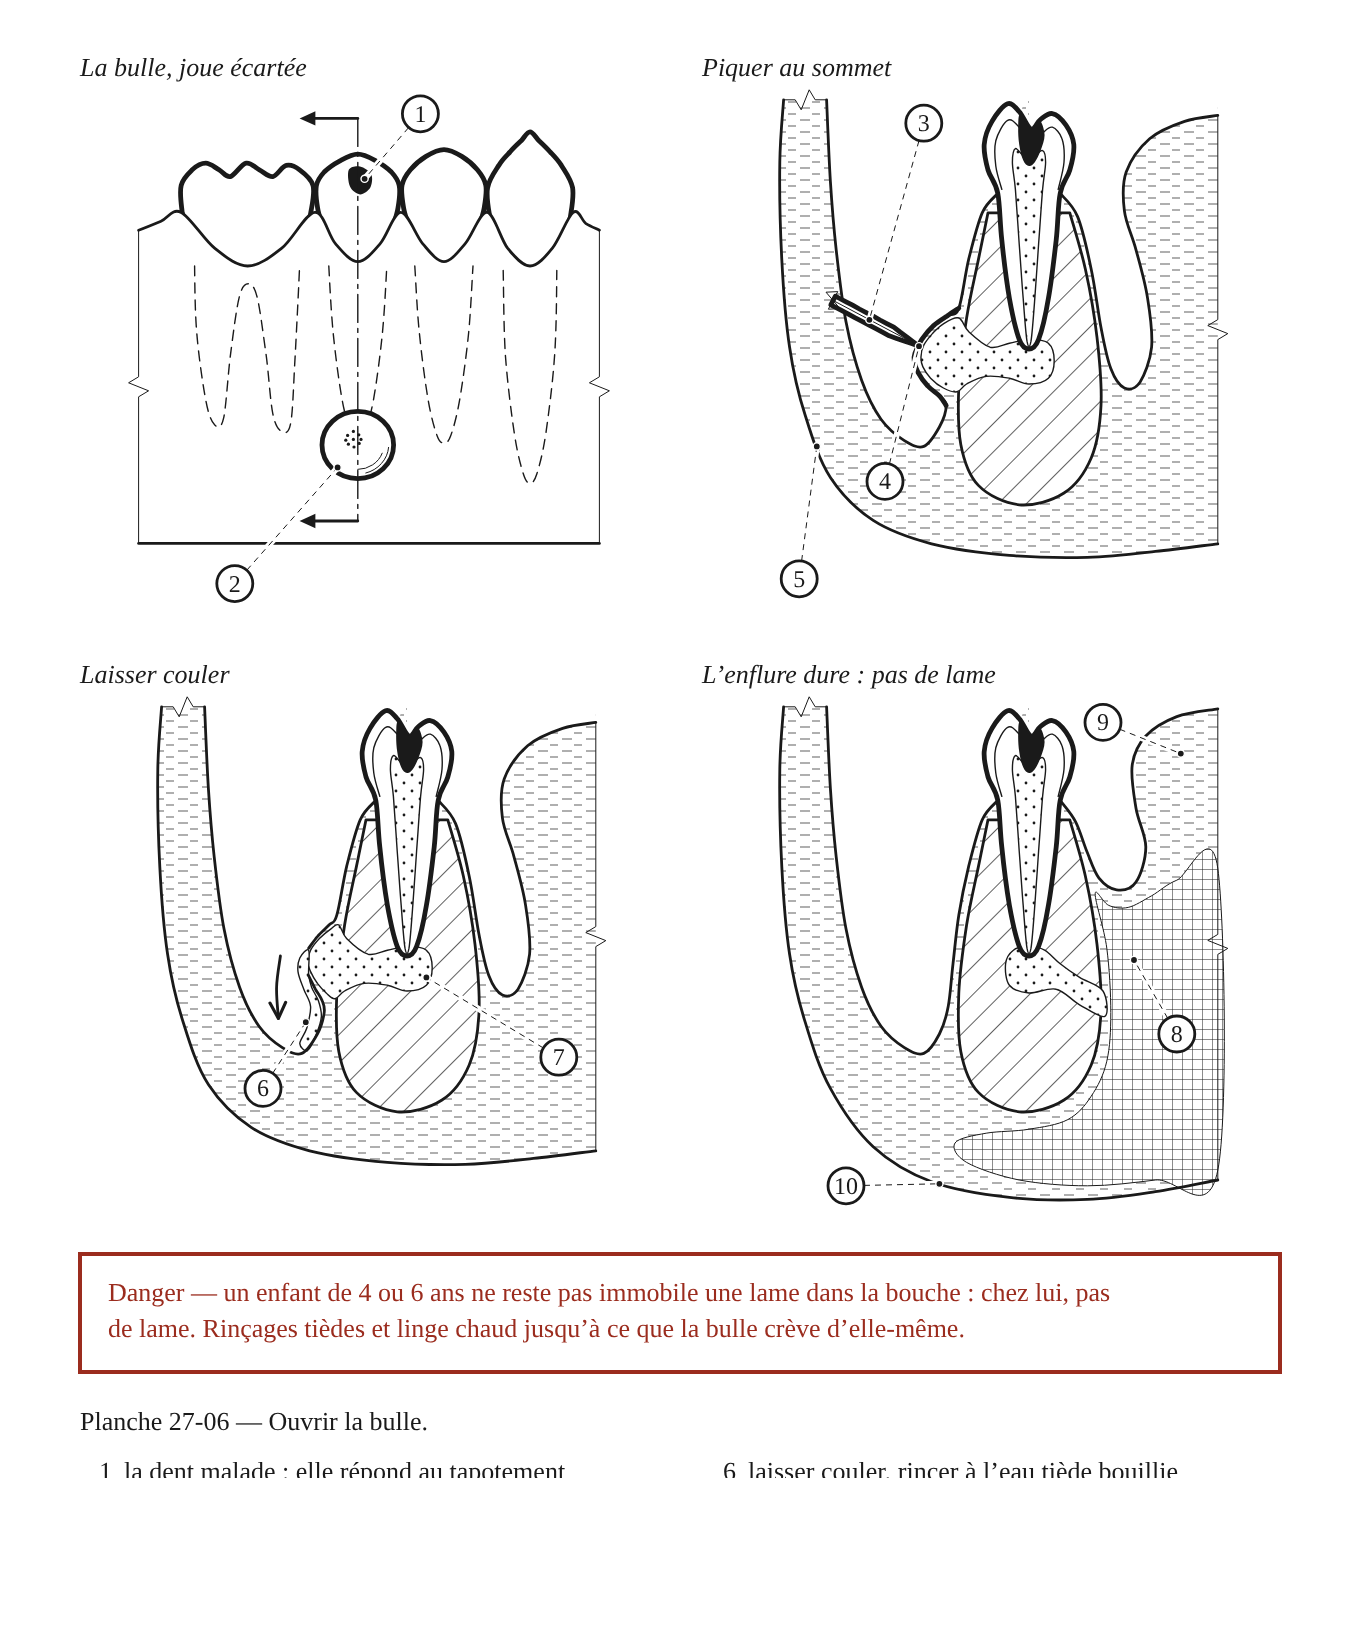
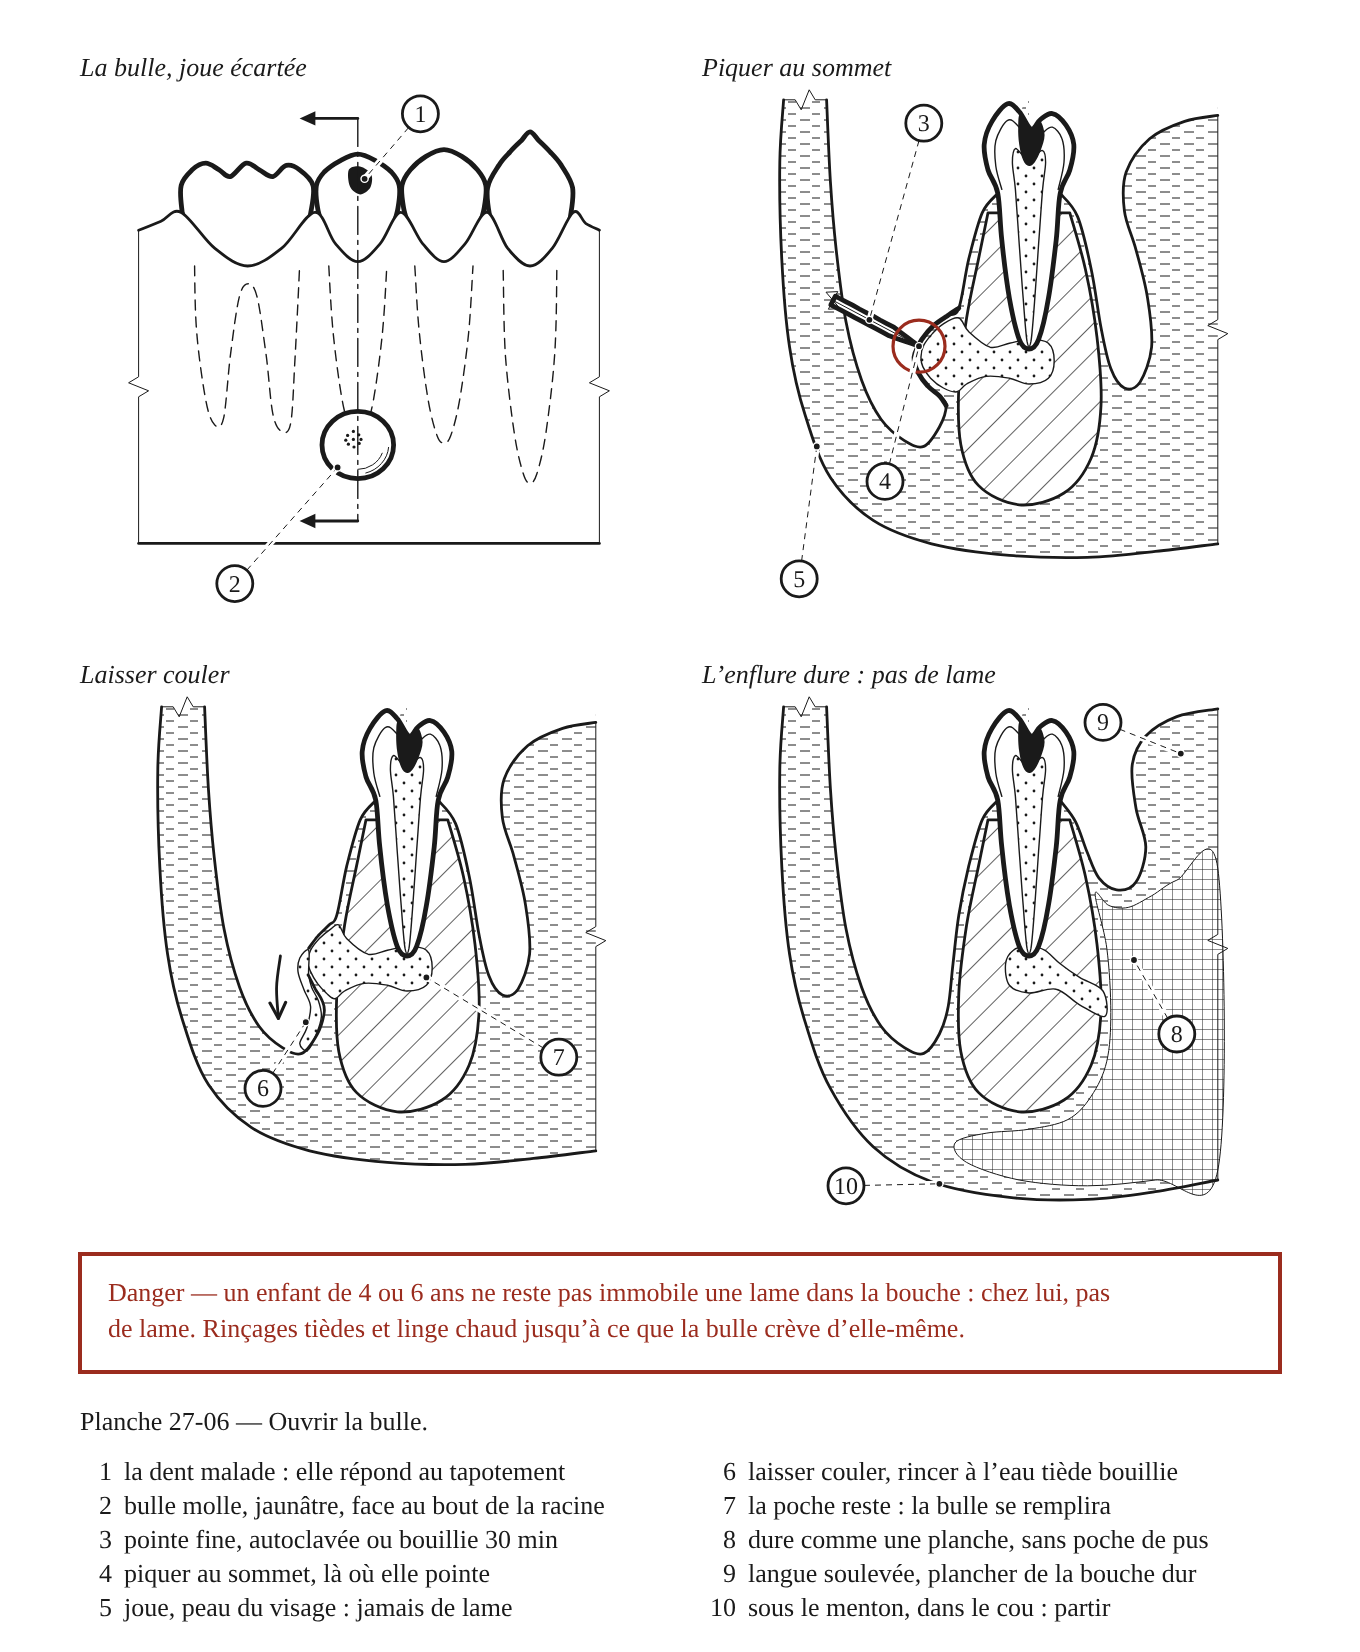
Charte : lot 5, paquet 1 (7 planches) ; option gris loin du module de carcasse
Claude-Session: https://claude.ai/code/session_014xDY5FLxFXDJt3nYAYznSZ

diff --git a/images/planches-src/37-06.js b/images/planches-src/37-06.js
@@ -15,6 +15,10 @@
 // ce qui se voit de devant est le dessous ; le dessus ne se devine qu'entre les feuilles, dedans.
 // Les tours de saule : un brin rond suivi par son axe, les tours vus de devant (un peu d'en haut),
 // ce qui passe dessous en tireté. Aucune main : l'objet et la flèche du geste.
+//
+// La charte : la pousse de saule, objet du geste dans les trois vues du bas, a son contour à 2,4.
+// Pas de gris : la hachure du dessus des feuilles donne déjà le foncé. Le rouge : les gestes —
+// tordre (les deux sens, une seule torsion), enrouler, tirer le bout repassé.
 module.exports = (h) => {
   const N = '#1A1A1A', B = '#FFFFFF';
   const f = v => Math.round(v * 10) / 10;
@@ -346,7 +350,7 @@ module.exports = (h) => {
     const rotation = (yc, sens) => {
       const rx = 24, ry = 6, pt = th => [XS + sens * rx * Math.sin(th), yc + ry * Math.cos(th)];
       const pts = (a, b, n = 24) => Array.from({ length: n + 1 }, (_, i) => pt(a + (b - a) * i / n));
-      return { dos: poly(pts(0.72 * Math.PI, 1.5 * Math.PI), h.a.arete, false), face: h.fleche(`M${pts(1.5 * Math.PI, 2.42 * Math.PI).map(P).join(' L')}`) };
+      return { dos: poly(pts(0.72 * Math.PI, 1.5 * Math.PI), h.a.geste, false), face: h.geste(`M${pts(1.5 * Math.PI, 2.42 * Math.PI).map(P).join(' L')}`) };
     };
     const hautR = rotation(Y1 - 20, 1), basR = rotation(Y2 + 20, -1);
     out.push(hautR.dos, basR.dos);
@@ -358,7 +362,7 @@ module.exports = (h) => {
       g.push([XS - r - tw * Math.sin((y - Y1) / 9 * TAU), y]);
       d.push([XS + r + tw * Math.sin((y - Y1) / 9 * TAU + Math.PI), y]);
     }
-    out.push(poly([[XS - r0 + 0.5, 6], [XS + r0 - 0.5, 4.5], ...d, ...g.reverse()], tr(1.4, B)));
+    out.push(poly([[XS - r0 + 0.5, 6], [XS + r0 - 0.5, 4.5], ...d, ...g.reverse()], tr(2.4, B)));
     // les fibres tordues, qui s'ouvrent un peu
     for (let y = Y1 + 5; y < Y2 - 3; y += 8.5) {
       out.push(h.path(`M${f(XS - r0 + 0.8)} ${f(y + 3.4)} Q${f(XS)} ${f(y + 1.2)} ${f(XS + r0 - 0.8)} ${f(y - 3.4)}`, tr(0.5)));
@@ -387,17 +391,17 @@ module.exports = (h) => {
   const arcPts = (C, r, a1, a2, n = 10) => Array.from({ length: n + 1 }, (_, i) => { const a = a1 + (a2 - a1) * i / n; return add(C, [r * Math.cos(a), r * Math.sin(a)]); });
   const yDebutBas = yTour(2, XDB) + TT / 2 + 30;
   const lien = fini => {
-    const out = [], opt = { debut: 'rond', vDebut: [-1, 0], fin: 'rond', vFin: [1, 0] };
+    const out = [], opt = { debut: 'rond', vDebut: [-1, 0], fin: 'rond', vFin: [1, 0], ep: 2.4 };
     // le début : monte sous les tours, tourne et devient le tour du haut
     const y0s = yTour(0, XDB + RB);
     const deb = [[XDB, yDebutBas], [XDB, y0s + RB], ...arcPts([XDB + RB, y0s + RB], RB, Math.PI, 1.5 * Math.PI).slice(1), ...passe(0, XDB + RB, XD).slice(1)];
     // le bout repassé : la fin du dernier tour tourne vers le haut, passe sous les deux tours
     const yE = yTour(2, XT - RB), yHautBout = yTour(0, XT) - TT / 2 - 34;
-    if (fini) out.push(brin(mk([[XT, yTour(1, XT) + TT / 2 + 2], [XT, yHautBout]]), TT, { fin: 'biseau' }));
-    out.push(brin(mk(deb), TT, { debut: 'biseau', fin: 'rond', vFin: [1, 0] }));
+    if (fini) out.push(brin(mk([[XT, yTour(1, XT) + TT / 2 + 2], [XT, yHautBout]]), TT, { fin: 'biseau', ep: 2.4 }));
+    out.push(brin(mk(deb), TT, { debut: 'biseau', fin: 'rond', vFin: [1, 0], ep: 2.4 }));
     if (fini) {
       const der = [...passe(2, XG, XT - RB), ...arcPts([XT - RB, yE - RB], RB, Math.PI / 2, 0).slice(1), [XT, yTour(1, XT) + TT / 2 - 3]];
-      out.push(brin(mk(der), TT, { debut: 'rond', vDebut: [-1, 0] }));
+      out.push(brin(mk(der), TT, { debut: 'rond', vDebut: [-1, 0], ep: 2.4 }));
     }
     out.push(brin(mk(passe(1, XG, XD)), TT, opt));
     // ce qui passe dessous, en tireté
@@ -417,18 +421,18 @@ module.exports = (h) => {
     // la partie libre : la suite du tour du bas, tenue de côté, qui va passer derrière
     const y2 = yTour(2, XD);
     const libre = echant([...passe(2, XG, XD - 10, 6), [XD + 2, y2 + 1], [XD + 22, y2 + 8], [XD + 42, y2 + 26], [XD + 52, y2 + 58]], 2);
-    out.push(L.svg, brin(mk(libre), TT, { debut: 'rond', vDebut: [-1, 0], fin: 'biseau' }), L.caches);
+    out.push(L.svg, brin(mk(libre), TT, { debut: 'rond', vDebut: [-1, 0], fin: 'biseau', ep: 2.4 }), L.caches);
     // le tour qui vient : derrière de droite à gauche, puis devant de gauche à droite
     const ya = yDebutBas + 14, ra = RR + 14;
     const pts = Array.from({ length: 29 }, (_, i) => { const th = -Math.PI / 2 - 0.3 + (Math.PI + 0.45) * i / 28; return [CX + ra * Math.sin(th), ya + 0.22 * ra * Math.cos(th)]; });
-    out.push(h.fleche(`M${pts.map(P).join(' L')}`));
+    out.push(h.geste(`M${pts.map(P).join(' L')}`));
     return out.join('\n');
   };
   const repasser = () => {
     const out = [manche(CX, RR, 6, 202, 5)];
     ligF = lien(true);
     out.push(ligF.svg, ligF.caches);
-    out.push(h.fleche(`M${XT} ${f(ligF.yHautBout - 6)} L${XT} ${f(ligF.yHautBout - 30)}`));
+    out.push(h.geste(`M${XT} ${f(ligF.yHautBout - 6)} L${XT} ${f(ligF.yHautBout - 30)}`));
     return out.join('\n');
   };
 

diff --git a/images/planches-src/27-06.js b/images/planches-src/27-06.js
@@ -103,7 +103,7 @@ module.exports = (h) => {
     const L = (pts, a = h.a.arete, ferme = false) => h.path(cr(M(pts), ferme), a);
     const out = [];
     const dur = etat === 'dure';
-    out.push('<defs><pattern id="h-chair" width="12" height="6" patternUnits="userSpaceOnUse"><line x1="1" y1="2" x2="6" y2="2" stroke="#1A1A1A" stroke-width="0.35"/><line x1="7" y1="5" x2="11" y2="5" stroke="#1A1A1A" stroke-width="0.35"/></pattern></defs>');
+    out.push('<defs><pattern id="h-chair" width="12" height="6" patternUnits="userSpaceOnUse"><line x1="1" y1="2" x2="6" y2="2" stroke="#1A1A1A" stroke-width="0.5"/><line x1="7" y1="5" x2="11" y2="5" stroke="#1A1A1A" stroke-width="0.5"/></pattern></defs>');
     const suite = pts => cr(M(pts)).replace(/^M/, ' L');
     // la chair (joue, gencive, langue, plancher, menton) en tireté horizontal ; l'air en blanc
     out.push(h.path(cr(M(dur ? PEAU_DUR : PEAU)) + ` L${f(P([247, 38]))} L${f(P([24, 38]))} Z`, 'fill="url(#h-chair)" stroke="none"'));

diff --git a/images/planches-src/62-02.js b/images/planches-src/62-02.js
@@ -26,7 +26,8 @@ module.exports = (h) => {
     disposition: [['regions'], ['os']],
     vues: {
       regions: {
-        dessin: z => C.dessiner(h, place(z), { id: 'a', regions: true, limites: 'plein' }),
+        // la charte : les pattes du côté loin en gris loin (option du module)
+        dessin: z => C.dessiner(h, place(z), { id: 'a', regions: true, limites: 'plein', loin: 'gris' }),
         renvois: z => {
           const p = place(z);
           return [
@@ -40,7 +41,7 @@ module.exports = (h) => {
       },
       os: {
         dessin: z => C.dessiner(h, place(z), {
-          id: 'b', limites: 'tirete', loin: 'fin',
+          id: 'b', limites: 'tirete', loin: 'gris',
           os: ['vertebres', 'sacrum', 'cotes', 'sternum', 'omoplate', 'cartilageOmoplate', 'humerus', 'radius', 'cubitus',
             'bassin', 'femur', 'rotule', 'tibia'],
           osForts: ['rotule', 'cubitus', 'bassin', 'cartilageOmoplate', 'C7', 'T1', 'cote13'],

diff --git a/images/planches-src/50-10.js b/images/planches-src/50-10.js
@@ -44,7 +44,7 @@ module.exports = (h) => {
     const q = (x, y) => [c[0] + x * a, c[1] + y * b];
     const contour = FORME_ROCHE.map(([x, y]) => q(x, y));
     const out = ombre
-      ? [h.chemin(contour, h.a.blanc, true), h.chemin([q(0.06, -0.3), q(0.92, -0.4), q(1, 0.04), q(0.94, 0.5), q(0.7, 0.84)], h.a.ombre, true), h.chemin(contour, attr, true)]
+      ? [h.chemin(contour, h.a.blanc, true), h.chemin([q(0.06, -0.3), q(0.92, -0.4), q(1, 0.04), q(0.94, 0.5), q(0.7, 0.84)], h.a.ombre, true), h.chemin(contour, attr.replace(/fill="[^"]*"/, 'fill="none"'), true)]
       : [h.chemin(contour, attr, true)];
     if (aretes) {
       const s = q(0.06, -0.3);
